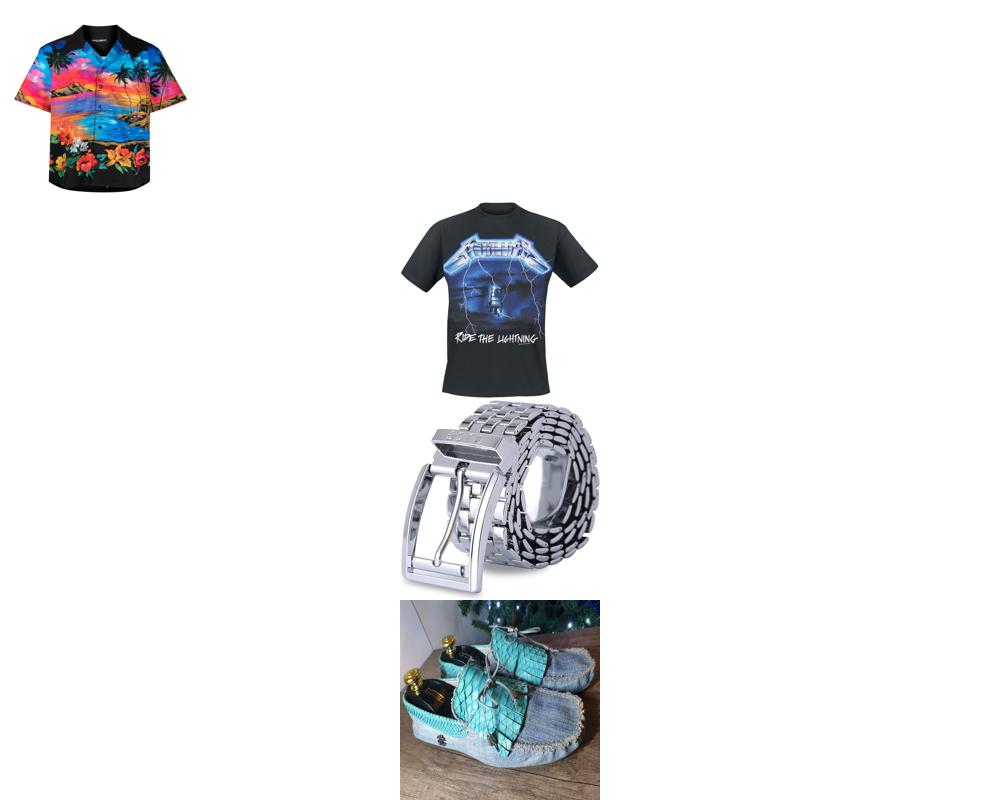
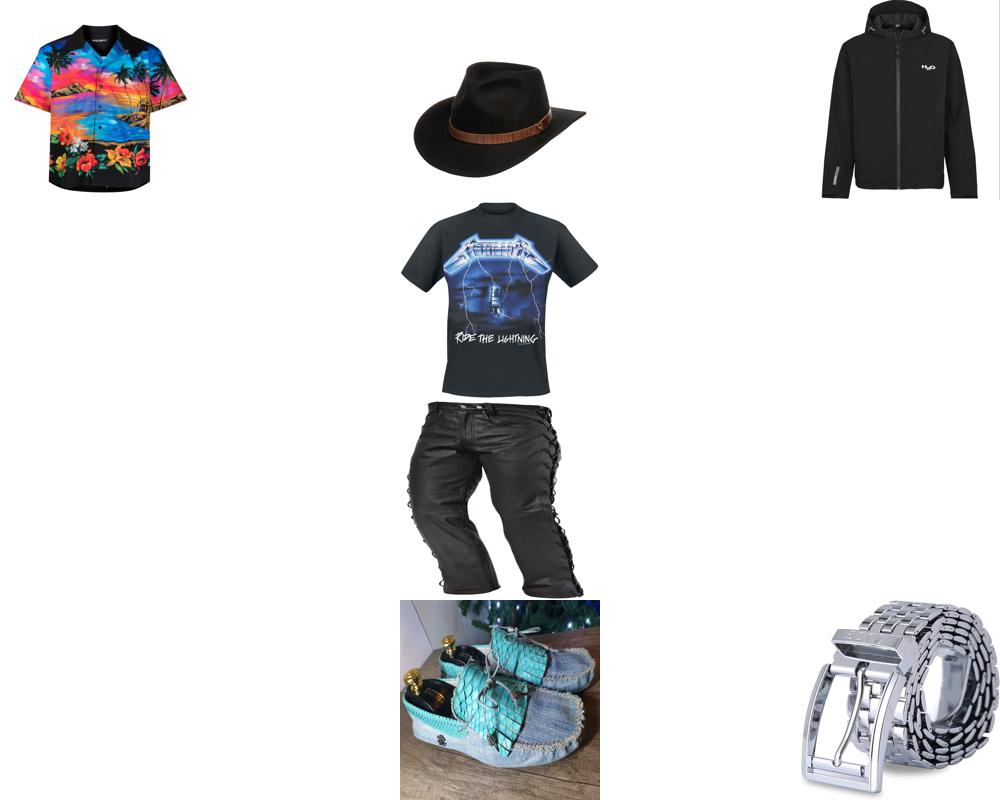
opdatering

diff --git a/toejprogram32.py b/toejprogram32.py
@@ -13,10 +13,11 @@ def get_weather_forecast(latitude, longitude):
 def get_next_hour_precipitation(timeseries):
     next_hour_data = timeseries[0]['data']['next_1_hours']
     return next_hour_data['details']['precipitation_amount'] if next_hour_data else 0
+    
 
 def get_current_temperature(timeseries):
     return timeseries[0]['data']['instant']['details']['air_temperature']
-    
+      
     
    
   
@@ -71,12 +72,13 @@ def slips():
         return random.choice(accessories_data['slips'])
                     
 
-def accessories():
-    with open('./Json//accessories.json') as f:
-        accessories_data = json.load(f)
+def solbriller():
+    with open('./Json/solbriller.json') as f:
+        solbriller_data = json.load(f)  
     symbol_code = get_next_hour_symbol_code(timeseries) 
-    if symbol_code == 'clearsky_day':
-        return accessories_data['solbriller']
+    if symbol_code in ['fair_day', 'clearsky_day']:
+        return random.choice(solbriller_data['solbriller'])
+        
 
 def bukser():
     with open('./Json/bukser.json') as f:
@@ -88,18 +90,12 @@ def bukser():
              sorter_varme_keys = [i for i, num in enumerate(find_varme_keys) if 3 <= num <= 6]
              tilfaeldige_keys = random.choice(sorter_varme_keys)
              bukser_info = bukser_data['bukser'][tilfaeldige_keys]
-             if bukser_info.get('baelte', False):  
-                 return bukser_info, baelter()
-             else:
-                 return bukser_info, None
+             return bukser_info
         elif -10 <= current_temperature <= 9:
             sorter_varme_keys = [i for i, num in enumerate(find_varme_keys) if 5 <= num <= 7]
             tilfaeldige_keys = random.choice(sorter_varme_keys) 
             bukser_info = bukser_data['bukser'][tilfaeldige_keys]
-            if bukser_info.get('baelte', False):  
-                 return bukser_info, baelter()
-            else:
-                 return bukser_info, None
+            return bukser_info
 
 def overtraeksbukser():
     with open('./Json/bukser.json') as f:
@@ -208,7 +204,7 @@ def tshirt():
 def skjorter():
         with open('./Json/t-shirts.json') as f:
             skjorte_data = json.load(f)
-            if current_temperature > 17:
+            if current_temperature < 17:
                 skjorte_data = random.choice(skjorte_data['skjorter'])
                 return skjorte_data
             else: 
@@ -235,8 +231,11 @@ def get_random_troeje():
     
 def outfit(timeseries):
     outfit = []
-    kategorier = [hovedbeklaedning, accessories, tshirt, skjorter, troejer, jakker, handsker, bukser, overtraeksbukser, sko]
+    kategorier = [hovedbeklaedning, solbriller, tshirt, skjorter, troejer, jakker, handsker, bukser, overtraeksbukser, sko, baelter]
   
+    belts = []
+
+
     for category_function in kategorier:
         result = category_function()
         if result is None:
@@ -244,10 +243,24 @@ def outfit(timeseries):
         if isinstance(result, tuple):
             for item in result:
                 if item and 'navn' in item:
-                    outfit.append({'name': item['navn'], 'category': category_function.__name__, 'image_path': item.get('billede', '')})
+                    if category_function.__name__ == 'bukser' and not item.get('baelte', False):
+                        belts.append(item)
+                    else:
+                        outfit.append({'name': item['navn'], 'category': category_function.__name__, 'image_path': item.get('billede', '')})
         elif 'navn' in result:
-            outfit.append({'name': result['navn'], 'category': category_function.__name__, 'image_path': result.get('billede', '')})
+            if category_function.__name__ == 'bukser' and not result.get('baelte', False):
+                belts.append(result)
+            else:
+                outfit.append({'name': result['navn'], 'category': category_function.__name__, 'image_path': result.get('billede', '')})
    
+    # Process belts separately
+    for belt in belts:
+        outfit.append({'name': belt['navn'], 'category': 'baelter', 'image_path': belt.get('billede', '')})
+   
+
+
+    
+
    
     if next_hour_precipitation >= 1 and 5 <= current_temperature <= 14:
         for index, item_dict in enumerate(outfit):
@@ -274,7 +287,7 @@ def outfit(timeseries):
                 new_jacket = get_random_lang_jakke()
                 if new_jacket:
                     outfit[index] = new_jacket['navn']
-                   # print(f"Replaced {item} with {new_jacket['navn']}")
+                    # print(f"Replaced {item} with {new_jacket['navn']}")
                     break 
     #else:
         #print("No blazer found; no jackets were replaced.")
@@ -287,19 +300,19 @@ def outfit(timeseries):
     new_path = os.path.join(directory, new_filename) 
 
     if not os.path.exists(directory):
-        os.mkdir(directory)
+    os.mkdir(directory)
     
     with open(new_path, "w") as f:
-        json.dump(outfit, f, indent=4)
+    json.dump(outfit, f, indent=4)
     '''    
     '''
     conn = http.client.HTTPSConnection("api.pushover.net:443")
     conn.request("POST", "/1/messages.json",
-      urllib.parse.urlencode({
-        "token": "agv6vuha11wiv4a7gw55qwjmpp97az",
-        "user": "uz7q8o8jtapyur766atyoyuwjxmp4h",
-        "message": json.dumps(outfit, indent=4),
-      }), { "Content-type": "application/x-www-form-urlencoded" })
+    urllib.parse.urlencode({
+    "token": "agv6vuha11wiv4a7gw55qwjmpp97az",
+    "user": "uz7q8o8jtapyur766atyoyuwjxmp4h",
+    "message": json.dumps(outfit, indent=4),
+    }), { "Content-type": "application/x-www-form-urlencoded" })
     conn.getresponse()
     '''
 
@@ -317,7 +330,7 @@ def outfit(timeseries):
 def main():
     outfit1 = outfit(timeseries)
     symbol_code = get_next_hour_symbol_code(timeseries)
-    #print(f"temperatur er lige nu {current_temperature} og vejrsituationen er {symbol_code} sandsynligheden for at det kommer til at regne er {next_hour_precipitation}")
+    print(f"temperatur er lige nu {current_temperature} og vejrsituationen er {symbol_code} sandsynligheden for at det kommer til at regne er {next_hour_precipitation}")
  
 if __name__ == "__main__":
     main()

diff --git a/test.py b/test.py
@@ -8,7 +8,7 @@ outfit_liste = outfit(timeseries)
 
 
 layout = {
-    'skjorter': (0, 0), '1': (0, 1), 'hovedbeklaedning': (0, 2), '3': (0, 3), 'jakker': (0, 4),
+    'skjorter': (0, 0), '1': (0, 1),'hovedbeklaedning': (0, 2), '3': (0, 3), 'jakker': (0, 4),
     'solbriller': (1, 0), '6': (1, 1), 't-shirts': (1, 2), '8': (1, 3), 'slips': (1, 4),
     'overtraeksbukser': (2, 0), '11': (2, 1), 'bukser_shorts': (2, 2), '13': (2, 3), 'handsker': (2, 4),
     'troejer': (3, 0), '16': (3, 1), 'sko': (3, 2), '18': (3, 3), 'baelter': (3, 4),
@@ -16,8 +16,7 @@ layout = {
 
 
 position_mapping = {
-    'huer': 'hovedbeklaedning',
-    'kasketter': 'hovedbeklaedning',
+    'hovedbeklaedning' : 'hovedbeklaedning',
     'tshirt': 't-shirts',
     'bukser': 'bukser_shorts',
     'shorts': 'bukser_shorts',
